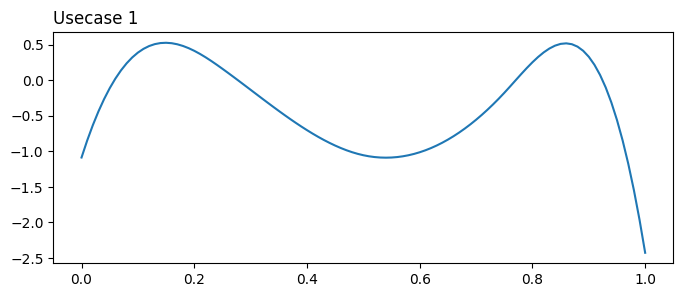
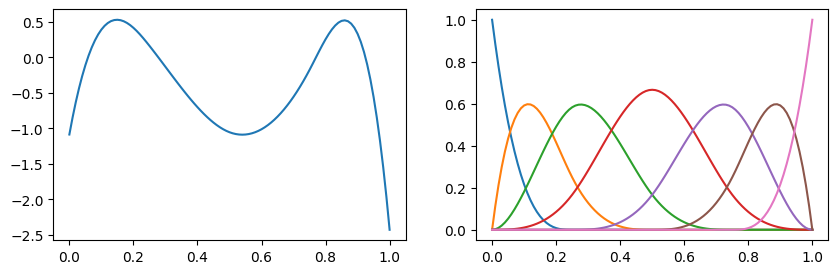
add more examples

diff --git a/README.rst b/README.rst
@@ -29,7 +29,7 @@ XSpline requires python 3.10 or higher. XSpline only depends on ``numpy>=1.25.1`
 Usage
 -----
 
-There are two main use-cases.
+You can use XSpline as a univariate function or use it to get design matrix.
 
 .. code-block:: python
     
@@ -41,30 +41,41 @@ There are two main use-cases.
     x = np.arange(0, 1.01, 0.01)
 
 
-one is to use XSpline as a univariate function. In this case, user must provide
+One is to use XSpline as a univariate function. In this case, user must provide
 coefficients for the spline bases.
 
 .. code-block:: python
 
     np.random.seed(123)
     spline.coef = np.random.randn(len(spline))
-    y = spline(x)
+    y, design_mat = spline(x), spline.get_design_mat(x)
 
-    fig, ax = plt.subplots(figsize=(8, 3))
-    ax.plot(x, y)
-    ax.set_title("Usecase 1", loc="left")
+    fig, ax = plt.subplots(1, 2, figsize=(10, 3))
+    ax[0].plot(x, y)
+    ax[1].plot(x, design_mat)
 
 .. image:: images/readme_usage_0.png
-    :alt: usecase_1
 
-The other is to obtain the design matrix for other modeling uses.
+XSpline can be used to obtain derivatives.
 
 .. code-block:: python
 
-    design_mat = spline.get_design_mat(x)
+    dy, ddesign_mat = spline(x, order=1), spline.get_design_mat(x, order=1)
 
-    fig, ax = plt.subplots(figsize=(8, 3))
-    ax.plot(x, design_mat)
+    fig, ax = plt.subplots(1, 2, figsize=(10, 3))
+    ax[0].plot(x, dy)
+    ax[1].plot(x, ddesign_mat)
 
 .. image:: images/readme_usage_1.png
-    :alt: usecase_2
+
+XSpline can be used to obtain definite integrals.
+
+.. code-block:: python
+
+    iy, idesign_mat = spline(x, order=-1), spline.get_design_mat(x, order=-1)
+
+    fig, ax = plt.subplots(1, 2, figsize=(10, 3))
+    ax[0].plot(x, iy)
+    ax[1].plot(x, idesign_mat)
+
+.. image:: images/readme_usage_2.png
